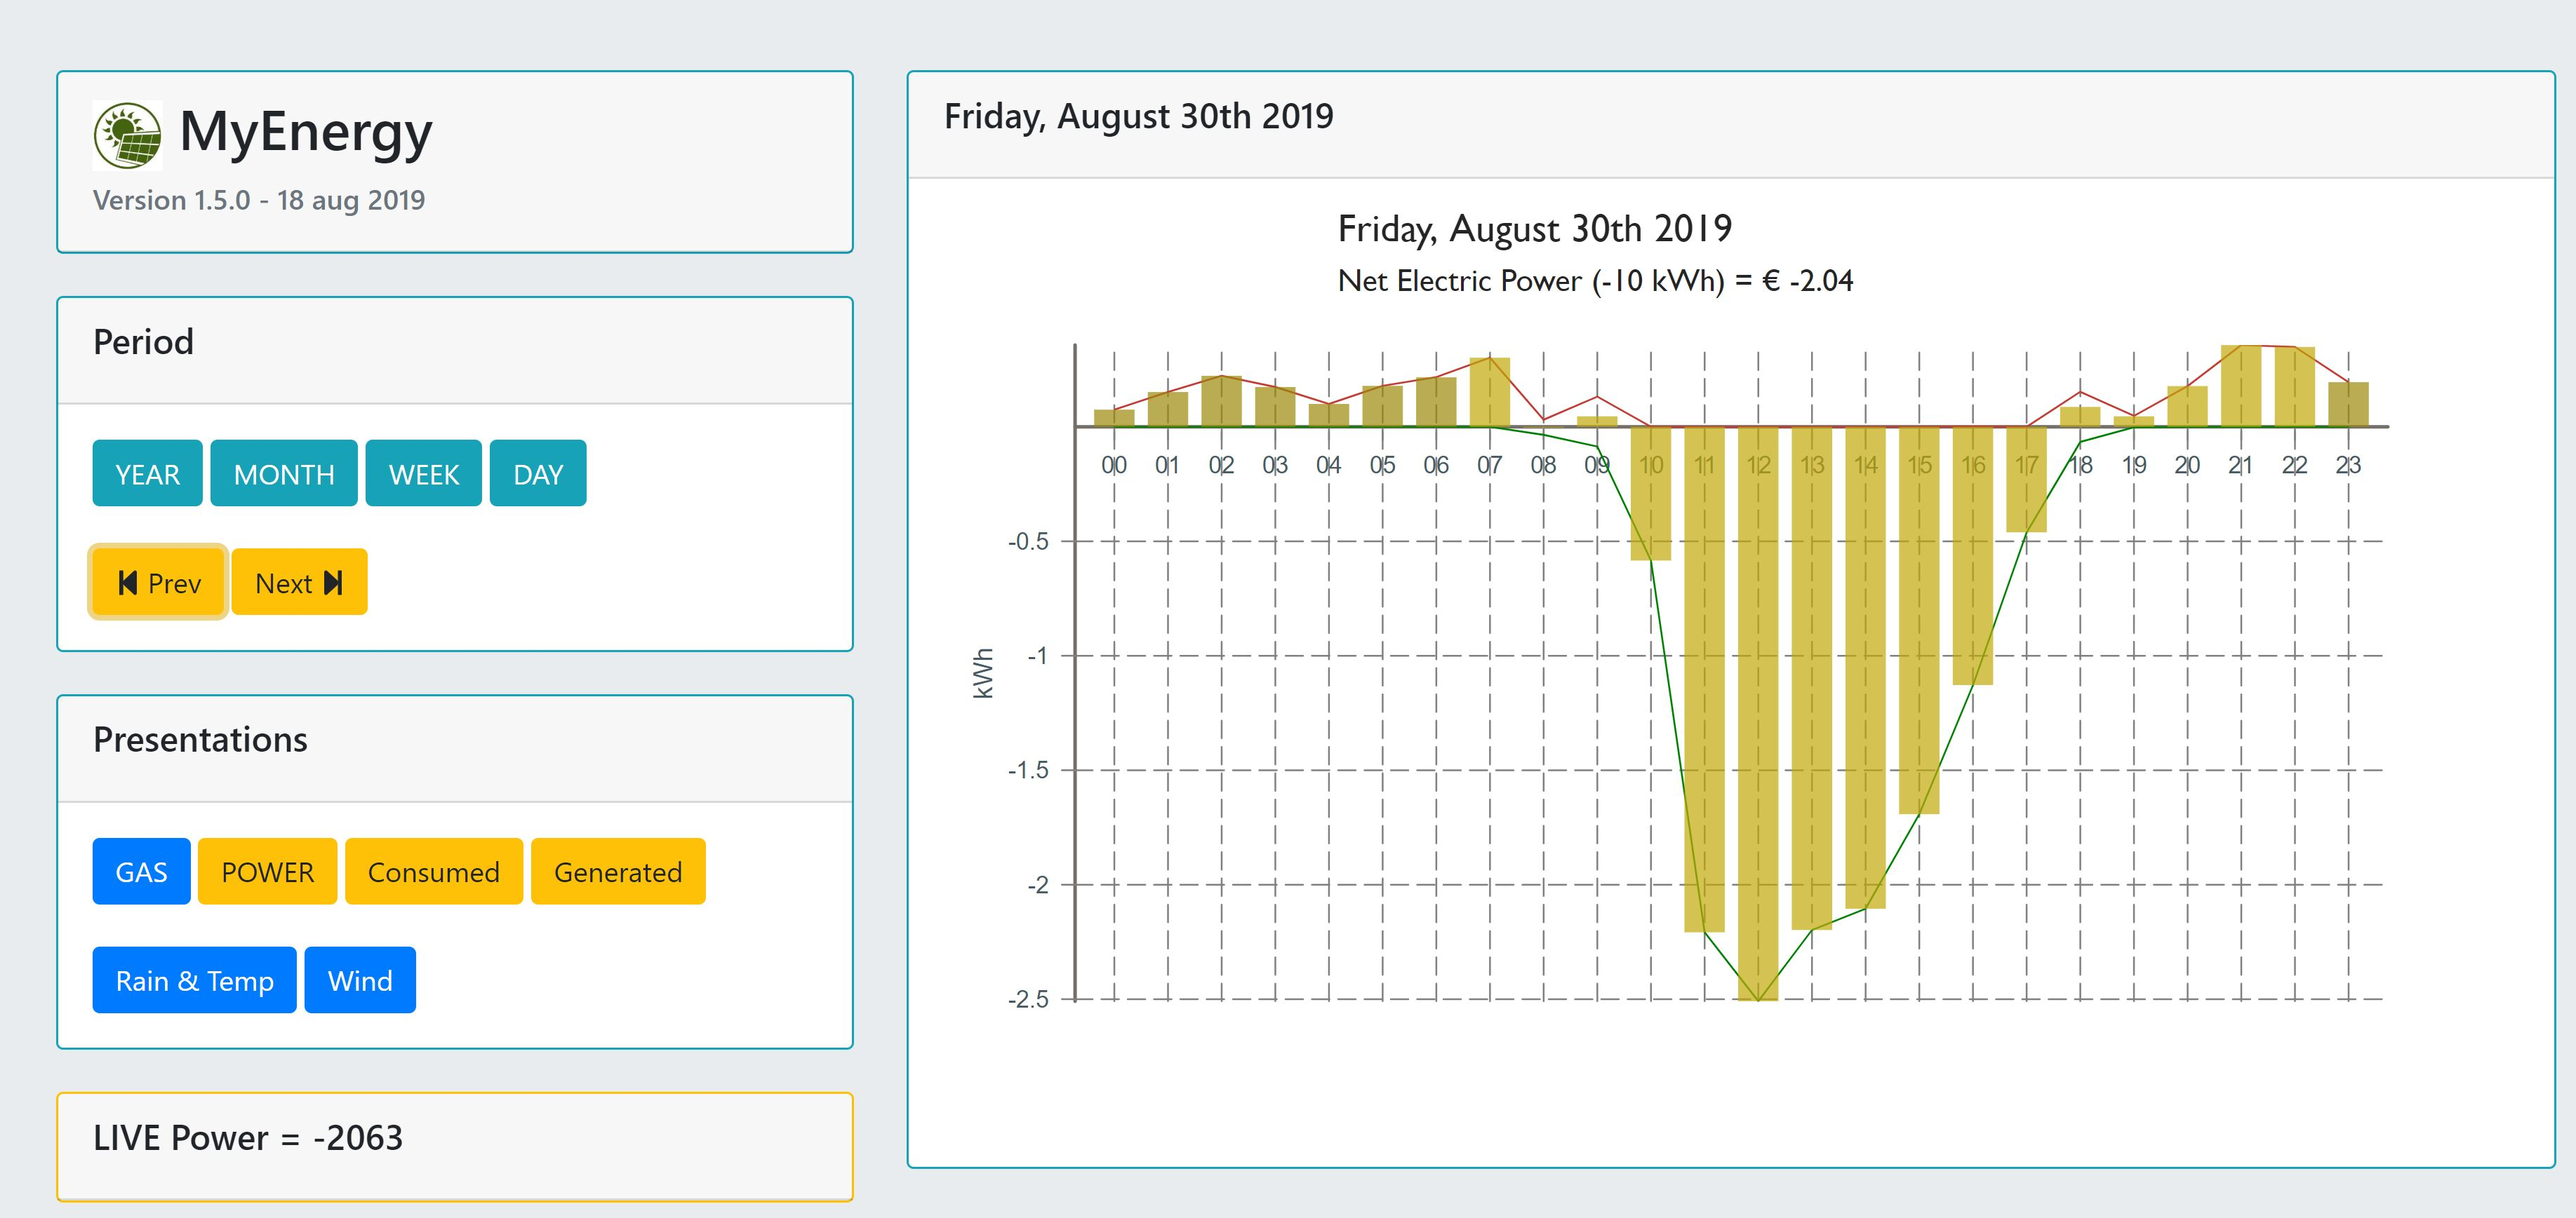
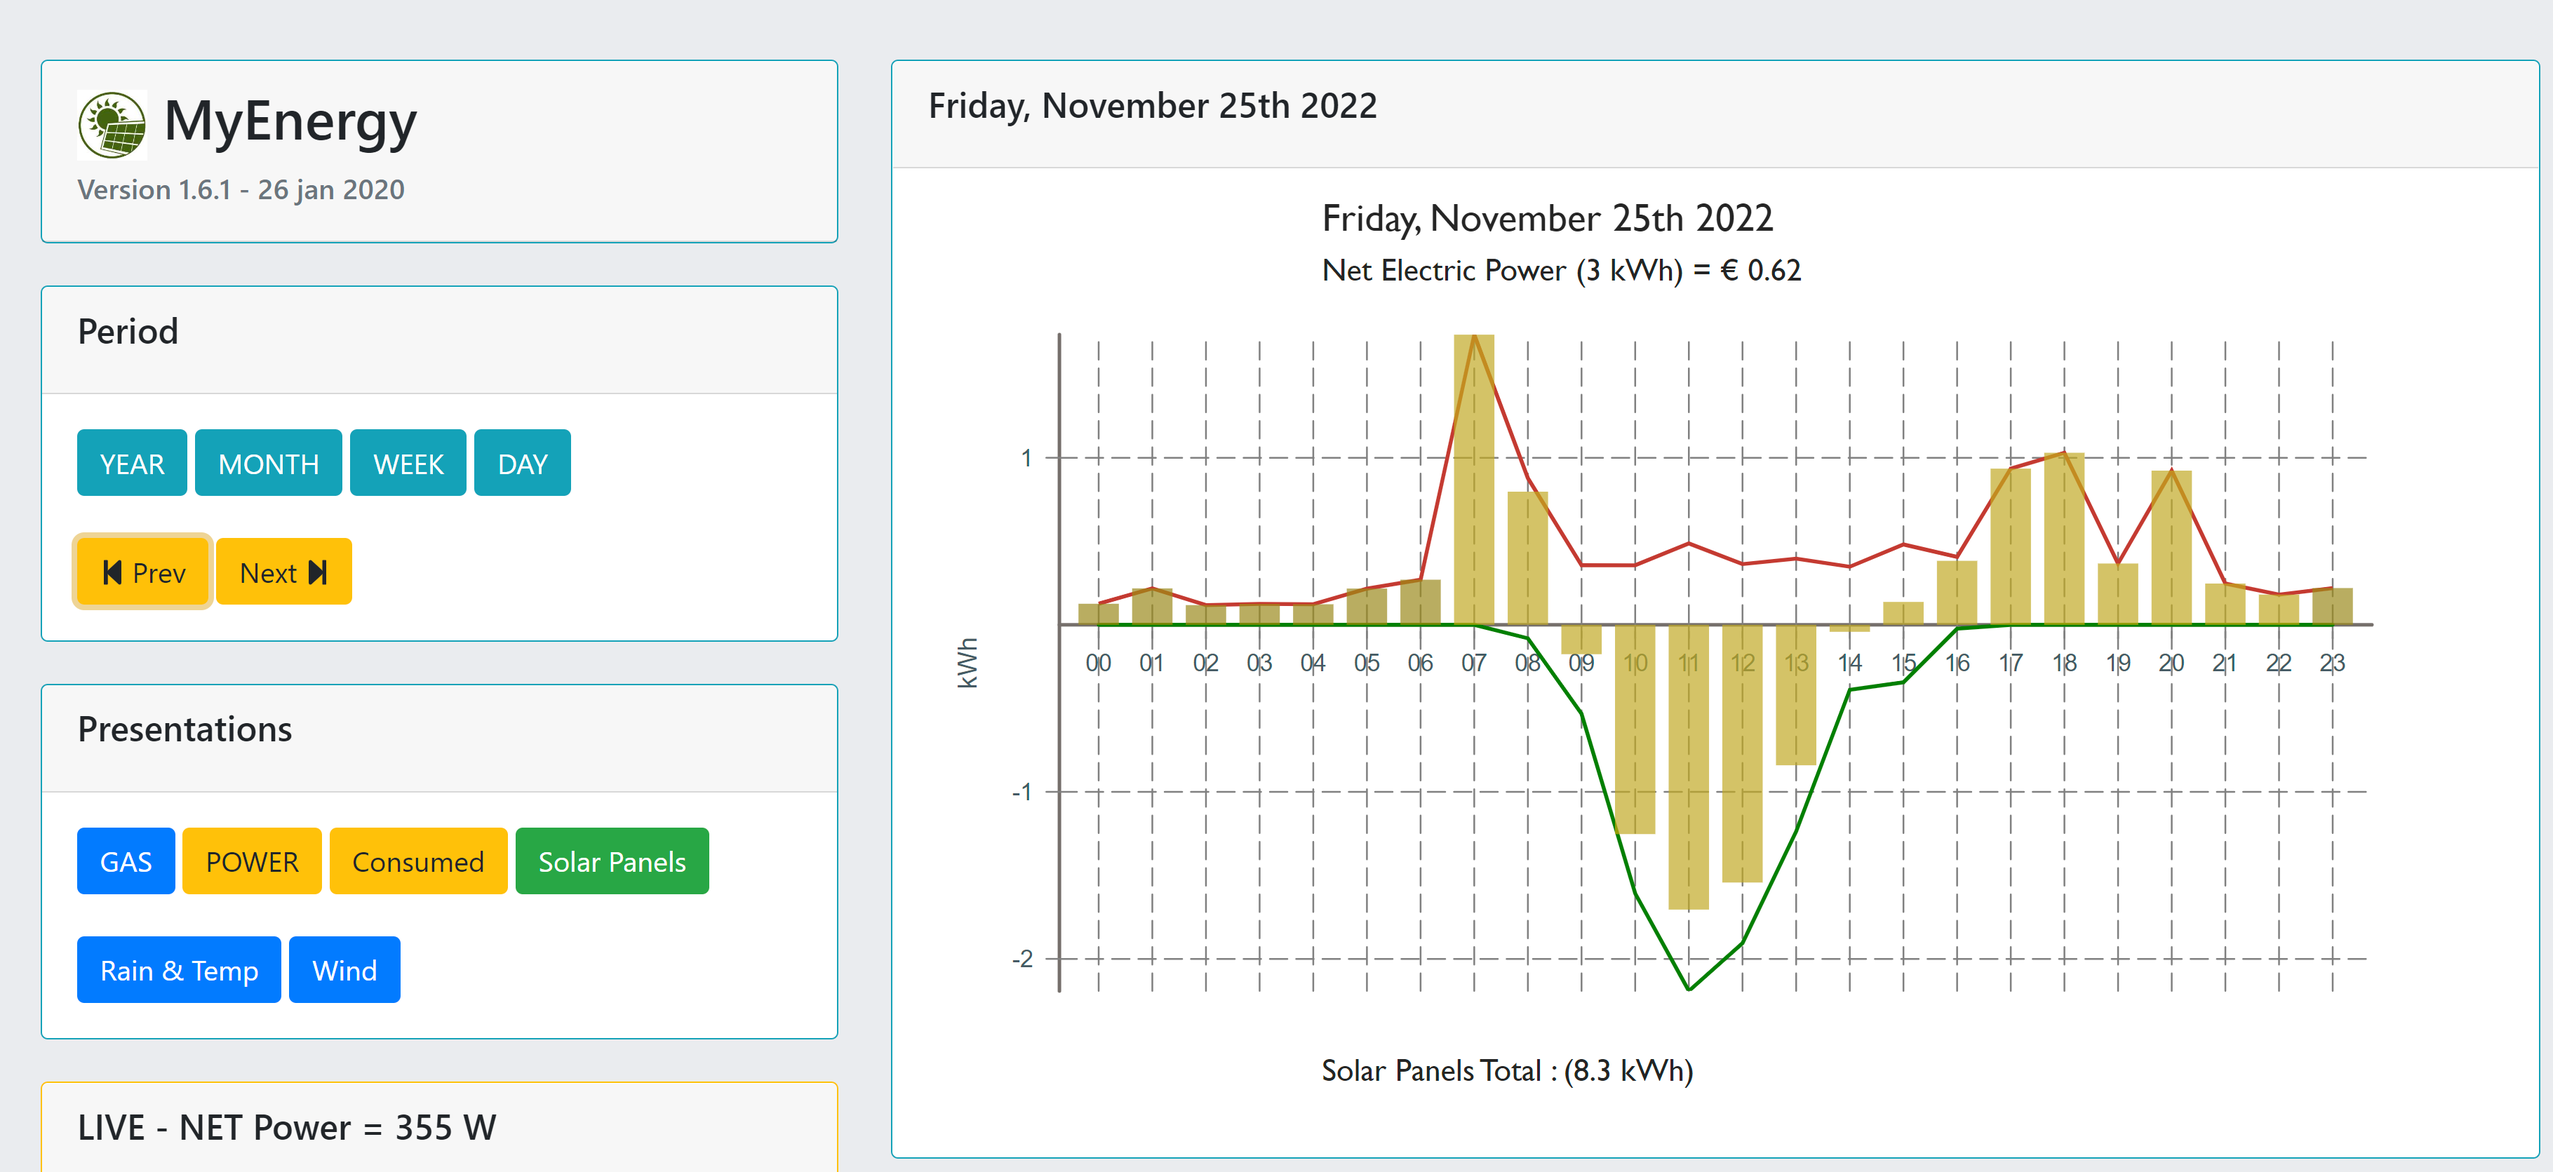
add content

diff --git a/src/contexts/StaticConfig.js b/src/contexts/StaticConfig.js
@@ -693,7 +693,16 @@ export const projects = [
         ],
         "details" : [
             { "image" : "/assets/my_energy_view.png",
-                "description" : "main screen" },
+                "description" : "Electricity usage for the current day. The yellow bars show the nett usage/delivery that is read from the smart meter. " +
+                    "The green line is what the external API for the solar panel reports. From that the red line is calculated, which shows the actual power usage."},
+            { "image" : "/assets/my_energy_view_solarpanels.png",
+                "description" : "The total output of the solar panels for the current year."},
+            { "image" : "/assets/my_energy_view_gas_week.png",
+                "description" : "Gas usage per week. This is read and stored by the 3rd Domoticz software on a Raspberry Pi. " +
+                    "My homemade 'EnergyServer' Django backend reads the Domoticz database and adds the data to its own database. " +
+                    "The EnergyView frontend contacts the EnergyServer through a REST API and displays the data." },
+            { "image" : "/assets/my_energy_view_weather.png",
+                "description" : "Rain and Temperature. Also read from the Domoticz database." },
         ]
     },
 

diff --git a/src/routes/portfolio/PortfolioPage.js b/src/routes/portfolio/PortfolioPage.js
@@ -27,8 +27,8 @@ export default function PortfolioPage(props) {
             <Card className='text-left'>
                 <Card.Body>
                     <Card.Text>
-                        All software in this portolio was made by me, and in almost all the cases I was the only developer.
-                        With the exception of the MoM Java software, where I initially followed an externally hired developer.
+                        All software in this portolio was made by me. In most cases I was the only developer,
+                        with the exception of the MoM Java software, where I initially followed an externally hired developer.
                         The ESAP & ADEX software has evolved into a team efford, but for clarity I show it how I initially created it.
                         I wrote more software than these pages show, I have limited it to the web applications.
                     </Card.Text>

diff --git a/src/components/Main.js b/src/components/Main.js
@@ -58,7 +58,7 @@ export default function Main() {
                 </Switch>
             </div>
             <footer>
-                <small> (C) 2022 - Nico Vermaas - version 1.0.0 - 29 nov 2022 - 191:00</small>
+                <small> (C) 2022 - Nico Vermaas - version 1.0.0 - 30 nov 2022 - 21:00</small>
             </footer>
         </Router>
 
